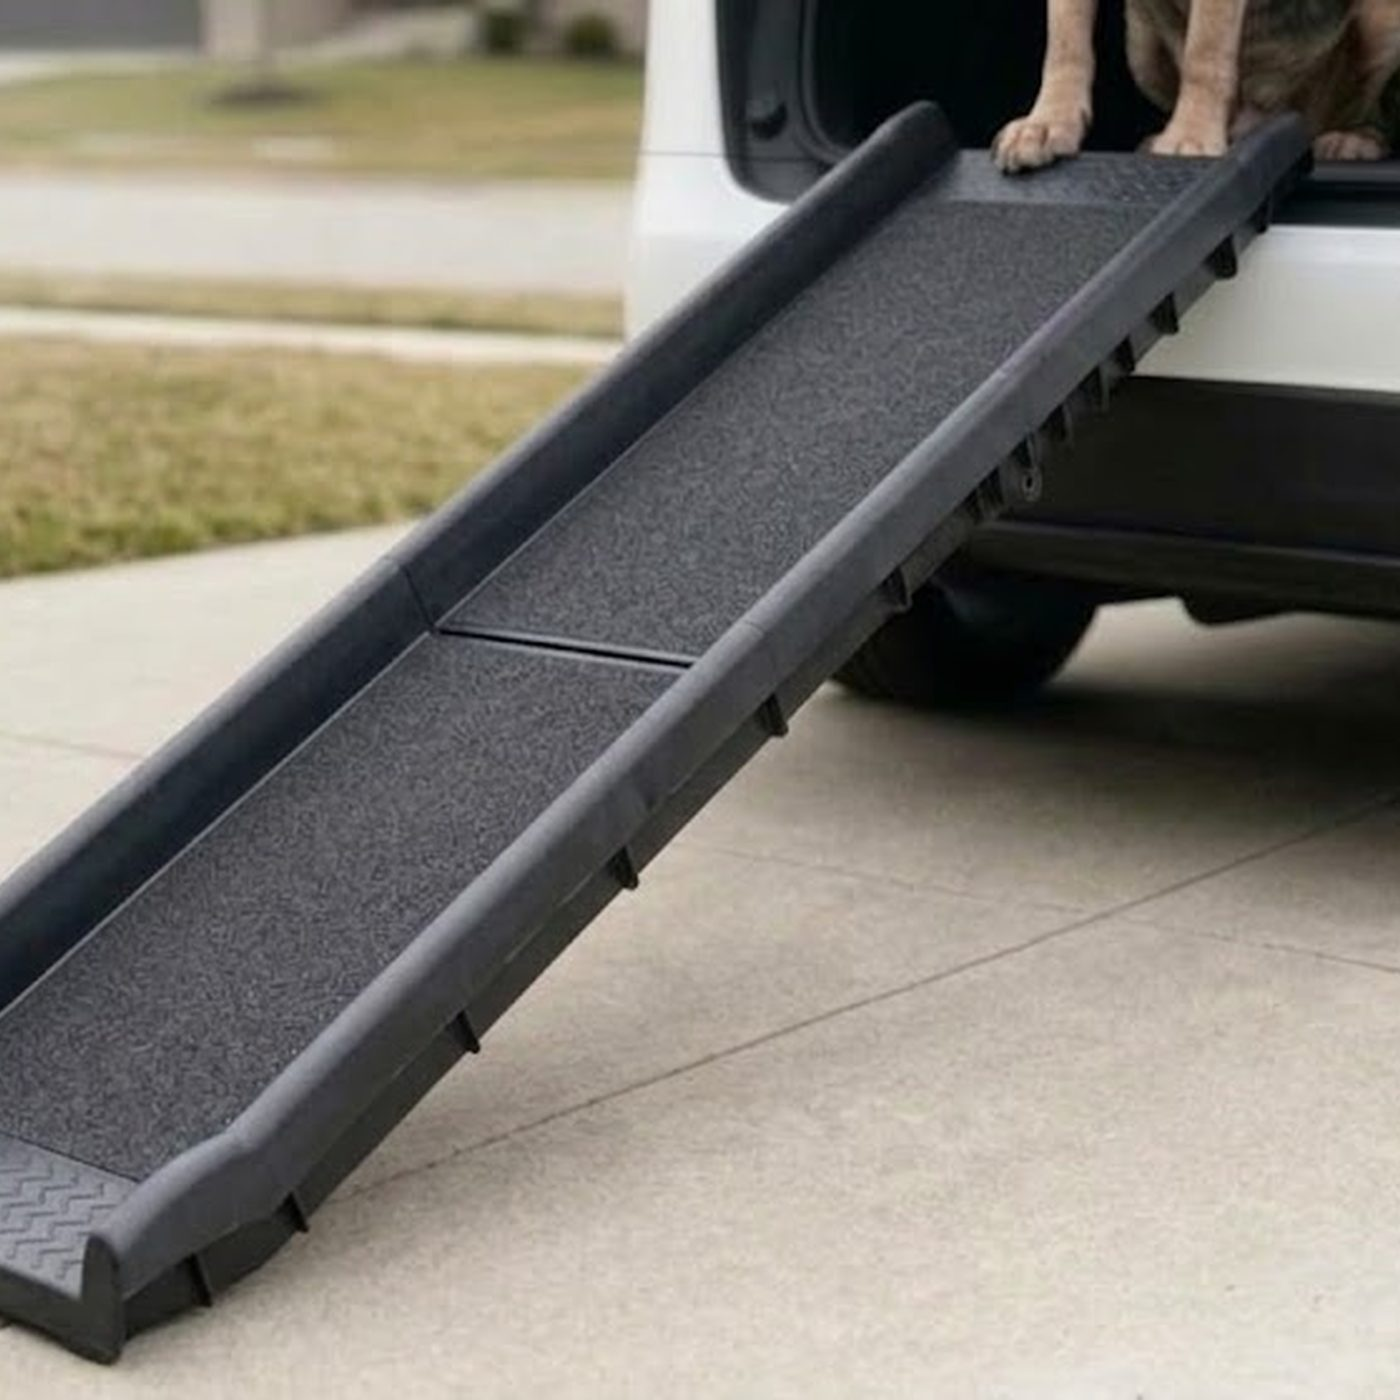
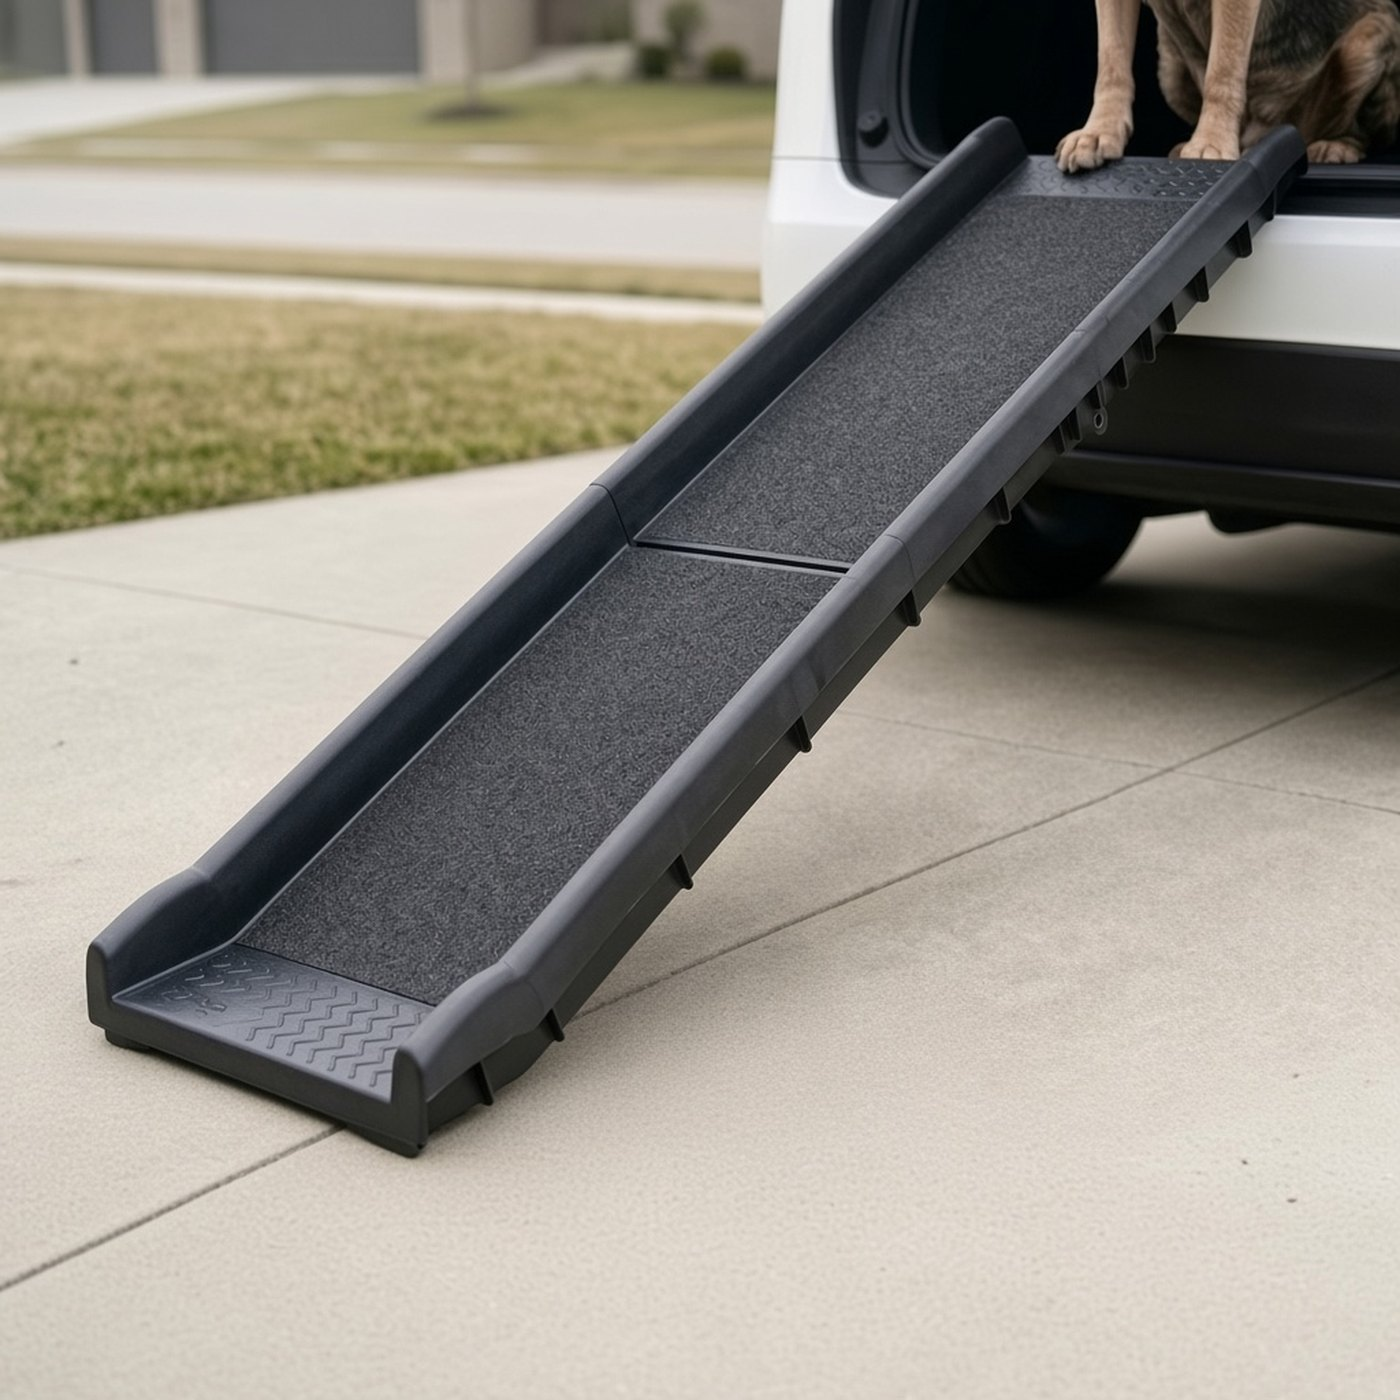
Rebuild the car-ramp photos as sharp square product images.
The old files were about 1024 pixels wide. The new set matches the 1400 pixel catalog photos on the ramp page, the homepage, and the shop cards. The spec sheet keeps its original printed measurements.

diff --git a/src/lib/assets.ts b/src/lib/assets.ts
@@ -49,10 +49,9 @@ export const ASSETS = {
    * studio shots. The brand poster (grit/pawgrip-pro-poster.jpg) is kept for
    * social ads only: it shows a house pet door, not a car.
    *
-   * The gallery frame is 5:3. Scene photos (1.5–1.84:1) fill it with a light
-   * crop steered by `position`; `fit: 'contain'` frames are never cropped
-   * (spec sheet text, studio shots) and letterbox onto `bg`, sampled from
-   * the photo's own edge so the bands read as part of the image.
+   * Every photo file is a 1400×1400 square, the same canvas as the catalog
+   * shots. The gallery frame is square. `fit: 'contain'` is for the spec
+   * sheet, whose printed measurements must stay intact.
    *
    * `vehicles` lists the whitelisted kw_vehicle keys (lib/dki.ts) a photo
    * matches; a matching photo is moved to the front, nothing is hidden.
@@ -115,7 +114,7 @@ export const ASSETS = {
     {
       src: '/assets/product/revised/ramp-studio-three-quarter.jpg',
       alt:
-        'Studio view of the Paw-Grip foldable dog car ramp at a three-quarter angle on a white background, marked 62 inches long and 16 inches wide',
+        'Studio view of the Paw-Grip foldable dog car ramp at a three-quarter angle on a white background',
       label: '62″ long · 16″ wide',
       fit: 'contain',
     },
